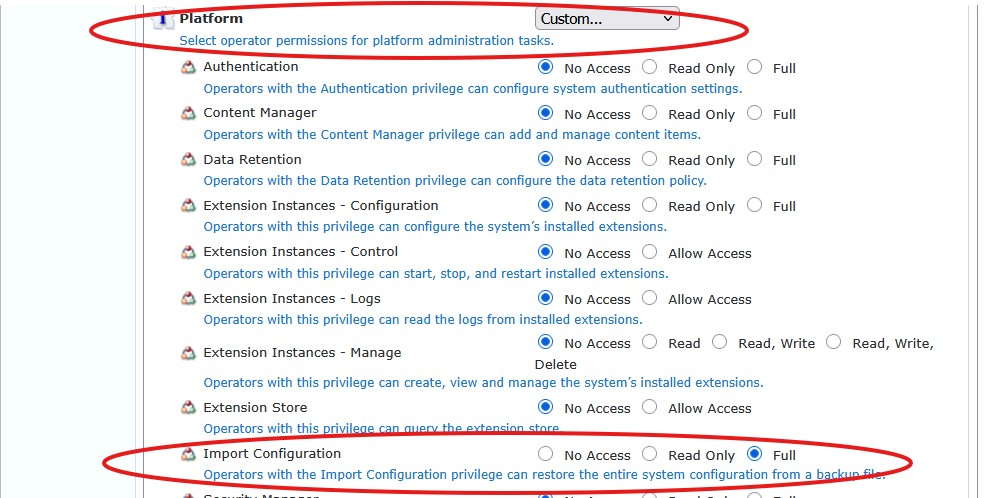
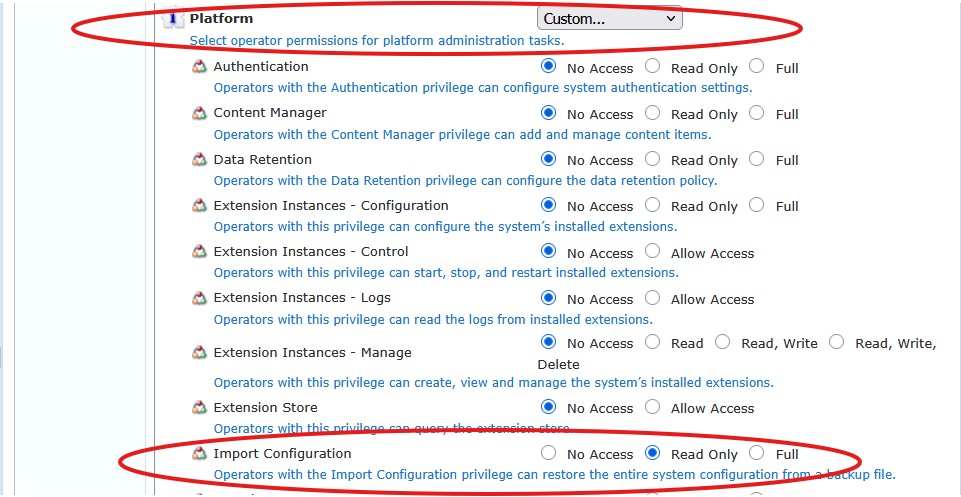
modified:   clearpass/cert_manager/CPPM_CertMgr_Web.py 	modified:   clearpass/cert_manager/README.md 	modified:   clearpass/cert_manager/screenshots/permissions-platform.jpg

diff --git a/clearpass/cert_manager/CPPM_CertMgr_Web.py b/clearpass/cert_manager/CPPM_CertMgr_Web.py
@@ -16,6 +16,15 @@ warnings.filterwarnings("ignore", category=UnknownTimezoneWarning)
 
 # -------------------- Helpers / constants --------------------
 SERVICE_NAMES = ["RADIUS", "HTTPS(RSA)", "HTTPS(ECC)", "RadSec"]
+REQUIRED_PRIVILEGES = {
+    "#admin_restore",
+    "%cppm_cert_trust_list",
+    "%cppm_certificates",
+    "?api_index",
+    "?cppm_config",
+    "?platform",
+    "apigility",
+}
 
 def canonical_service_name(s: str) -> str:
     if not s: return s
@@ -239,6 +248,12 @@ class ClearPassAPI:
         data = self._get("/api/cert-trust-list")
         return self._extract_list(data)
 
+    def list_privileges(self):
+        data = self._get("/api/oauth/privileges")
+        if isinstance(data, dict) and isinstance(data.get("privileges"), list):
+            return data.get("privileges")
+        return []
+
 # -------------------- Flask app & file hosting --------------------
 app = Flask(__name__)
 app.config["JSONIFY_PRETTYPRINT_REGULAR"] = True
@@ -327,7 +342,7 @@ def index():
  .row{display:flex;gap:12px;flex-wrap:wrap;align-items:center}
  input[type=text],input[type=password]{padding:8px;min-width:240px}
  button{padding:8px 12px;cursor:pointer}
- table{border-collapse:collapse;width:100%;margin-top:12px}
+ table{border-collapse:collapse;width:100%;margin-top:0}
  th,td{border-bottom:1px solid #ddd;padding:6px 8px;text-align:left;user-select:none}
  th{cursor:pointer}
 #modal { display: none; position: fixed; inset: 0; background: rgba(0,0,0,.45);
@@ -336,8 +351,8 @@ def index():
  tr:hover{background:#fafafa}
  .muted{color:#666}
  .topbar{position:sticky;top:0;background:#fff;padding:10px 0;border-bottom:1px solid #eee;z-index:10}
- .th-sort-asc::after{content:" â–²";font-size:12px;color:#666}
- .th-sort-desc::after{content:" â–¼";font-size:12px;color:#666}
+ .th-sort-asc::after{content:" ^";font-size:12px;color:#666}
+ .th-sort-desc::after{content:" v";font-size:12px;color:#666}
  .badge{display:inline-block;padding:2px 6px;border-radius:4px;background:#eef}
  .danger{color:#b42318}
  .dim{color:#777}
@@ -400,8 +415,10 @@ body.modal-open{ overflow:hidden; }
 .res-bad{color:#b42318}
 .badge-min{font:12px/1 ui-sans-serif,system-ui,Arial;padding:2px 6px;border-radius:999px;border:1px solid #ddd;background:#fff;white-space:nowrap}
 .hidden{display:none}
+.details-box{white-space:pre-wrap;background:#fafafa;border:1px solid #eee;padding:10px;border-radius:8px;font:12px/1.4 ui-monospace,Consolas,Menlo,monospace}
 </style>
 </head><body>
+<h2 style="margin:0 0 10px 0;">ClearPass Certificate Manager</h2>
 <div class="topbar">
   <div class="topbar-grid">
     <div class="panel">
@@ -423,7 +440,7 @@ body.modal-open{ overflow:hidden; }
 
     <!-- Replacement section is hidden until connected -->
     <div id="replaceSection" class="panel hidden">
-      <div class="panel-title">Step 2: Upload & Trust</div>
+      <div class="panel-title">Step 2: Upload & Host</div>
       <div class="stack">
         <div class="row">
           <input type="file" id="pfxFile" accept=".pfx,.p12,application/x-pkcs12" disabled>
@@ -431,22 +448,30 @@ body.modal-open{ overflow:hidden; }
           <button id="uploadBtn" class="btn" disabled>Upload & Host</button>
         </div>
         <div class="row">
+          <span id="fileStatus" class="muted"></span>
+        </div>
+      </div>
+    </div>
+
+    <div id="trustSection" class="panel hidden">
+      <div class="panel-title">Step 3: Trust List</div>
+      <div class="stack">
+        <div class="row">
           <button id="importTrustBtn" class="btn" disabled>Import Trust</button>
           <span class="dim">Usage: <code>Others</code></span>
         </div>
         <div class="row">
-          <span id="fileStatus" class="muted"></span>
           <span id="trustStatus" class="muted"></span>
         </div>
       </div>
     </div>
 
     <div id="replaceSection2" class="panel hidden">
-      <div class="panel-title">Step 3: Replace</div>
+      <div class="panel-title">Step 4: Replace</div>
       <div class="stack">
         <div class="row">
           <label><input id="selAll" type="checkbox"> Select visible</label>
-          <button id="replaceBtn" class="btn-danger" disabled>Replace Certificate…</button>
+          <button id="replaceBtn" class="btn-danger" disabled>Replace Certificate...</button>
         </div>
         <div class="row">
           <span class="dim">Select rows to target, then click Replace.</span>
@@ -456,16 +481,19 @@ body.modal-open{ overflow:hidden; }
   </div>
 </div>
 
-<div id="filterRow" class="row hidden" style="margin-top:8px;">
-  <strong>Filter services:</strong>
-  <label><input type="checkbox" class="svc" value="RADIUS" checked> RADIUS</label>
-  <label><input type="checkbox" class="svc" value="HTTPS(RSA)" checked> HTTPS(RSA)</label>
-  <label><input type="checkbox" class="svc" value="HTTPS(ECC)" checked> HTTPS(ECC)</label>
-  <label><input type="checkbox" class="svc" value="RadSec" checked> RadSec</label>
-</div>
-
 <table id="grid" style="display:none">
   <thead>
+    <tr id="filterRow" style="display:none">
+      <td colspan="8">
+        <div class="row" style="margin-top:8px;margin-bottom:0;">
+          <strong>Filter services:</strong>
+          <label><input type="checkbox" class="svc" value="RADIUS" checked> RADIUS</label>
+          <label><input type="checkbox" class="svc" value="HTTPS(RSA)" checked> HTTPS(RSA)</label>
+          <label><input type="checkbox" class="svc" value="HTTPS(ECC)" checked> HTTPS(ECC)</label>
+          <label><input type="checkbox" class="svc" value="RadSec" checked> RadSec</label>
+        </div>
+      </td>
+    </tr>
     <tr>
       <th data-key="__check" style="width:28px;"><input type="checkbox" id="hdrCheck"></th>
       <th data-key="server_label">Server</th>
@@ -481,7 +509,7 @@ body.modal-open{ overflow:hidden; }
 </table>
 
 <h3 id="detailHeader" class="hidden">Details</h3>
-<div id="details" class="hidden"></div>
+<div id="details" class="details-box hidden"></div>
 <div class="row hidden" id="detailBtns" style="margin-top:8px;">
   <button id="copyPemBtn" class="btn">Copy PEM</button>
 </div>
@@ -554,6 +582,48 @@ function svcFilter(){return new Set(Array.from(document.querySelectorAll(".svc:c
 function showModal(){ $('modal').classList.add('show'); }
 function hideModal(){ $('modal').classList.remove('show'); }
 
+// Ensure a single source of truth for the .svc filter controls: relocate any
+// stray controls into the table's filterRow (or create the row if missing).
+document.addEventListener('DOMContentLoaded', ()=>{
+  const grid = document.getElementById('grid');
+  const tableFilter = document.getElementById('filterRow');
+  // Gather .svc controls that are NOT inside the table (stray duplicates)
+  const stray = Array.from(document.querySelectorAll('.svc')).filter(cb => !cb.closest('#grid'));
+
+  if (tableFilter) {
+    // Move stray controls into the table's filter row container
+    const container = tableFilter.querySelector('div.row') || tableFilter;
+    stray.forEach(cb=>{
+      const label = cb.closest('label') || cb.parentElement;
+      if (label) container.appendChild(label);
+    });
+  } else if (grid && stray.length) {
+    // If table has no filterRow yet, create it and move the stray controls in
+    const thead = grid.querySelector('thead') || grid;
+    const tr = document.createElement('tr'); tr.id = 'filterRow'; tr.style.display = 'none';
+    const td = document.createElement('td'); td.colSpan = 8;
+    const div = document.createElement('div'); div.className = 'row'; div.style.marginTop = '8px'; div.style.marginBottom = '0';
+    const strong = document.createElement('strong'); strong.textContent = 'Filter services:';
+    div.appendChild(strong);
+    stray.forEach(cb=>{
+      const label = cb.closest('label') || cb.parentElement;
+      if (label) div.appendChild(label);
+    });
+    td.appendChild(div); tr.appendChild(td); thead.appendChild(tr);
+  }
+
+  // Attach idempotent handlers to .svc inputs that are now inside the table
+  const fr = document.getElementById('filterRow');
+  if (fr) {
+    fr.querySelectorAll('.svc').forEach(cb=>{
+      if (!cb._hasFilterHandler){
+        cb.addEventListener('change', ()=>{ applyFiltersAndSort(); $('selAll').checked=false; });
+        cb._hasFilterHandler = true;
+      }
+    });
+  }
+});
+
 function asJSON(obj, indent=2){
   try{ return JSON.stringify(obj, null, indent); }catch(_){ return String(obj); }
 }
@@ -576,9 +646,9 @@ function showResultsModal(payload){
     const div = document.createElement('div');
     div.className = 'res-row';
     div.innerHTML = `
-      <div class="${ok?'res-ok':'res-bad'}">${ok?'âœ…':'âŒ'}</div>
+      <div class="${ok?'res-ok':'res-bad'}">${ok?'OK':'X'}</div>
       <div>
-        <div><strong>${esc(r.server_label||'')}</strong> â€” ${esc(r.service||'')}</div>
+        <div><strong>${esc(r.server_label||'')}</strong>  -  ${esc(r.service||'')}</div>
         <pre style="margin:6px 0 0;white-space:pre-wrap">${esc(prettyMsg)}</pre>
       </div>
       <div><span class="badge-min">${r.status ?? ''}</span></div>
@@ -680,8 +750,20 @@ function renderTable(){
   grid.style.display = viewRows.length ? '' : 'none';
   const filterRow = document.getElementById('filterRow');
   if (filterRow) {
-    filterRow.style.display = viewRows.length ? '' : 'none';
-    filterRow.classList.toggle('hidden', viewRows.length === 0);
+    const show = viewRows.length > 0;
+    // For a table-row we toggle its display to '' (default) or 'none'.
+    if (show) {
+      filterRow.style.display = '';
+      // Attach handlers to the checkboxes inside the filter row (idempotent)
+      filterRow.querySelectorAll('.svc').forEach(cb=>{
+        if (!cb._hasFilterHandler){
+          cb.addEventListener('change', ()=>{ applyFiltersAndSort(); $('selAll').checked=false; });
+          cb._hasFilterHandler = true;
+        }
+      });
+    } else {
+      filterRow.style.display = 'none';
+    }
   }
   $('detailHeader').classList.add('hidden'); $('details').classList.add('hidden'); $('detailBtns').classList.add('hidden');
   selectedIndex=-1;
@@ -696,14 +778,21 @@ function selectRow(i){
   selectedIndex=i; const r=viewRows[i];
   $('detailHeader').classList.remove('hidden'); $('details').classList.remove('hidden'); $('detailBtns').classList.remove('hidden');
   const parts=[];
-  parts.push('Server: ' + (r.server_label||'')); parts.push('Service: ' + (r.service||'')); parts.push('Server UUID: ' + (r.server_uuid||''));
-  parts.push('Enabled: ' + (r.enabled_str||'')); parts.push('Subject: ' + (r.subject||'')); parts.push('Issuer: ' + (r.issuer||''));
-  parts.push('Issued Date: ' + (r.issued_date||'')); parts.push('Expiry Date: ' + (r.expiry_date||''));
-  parts.push(''); parts.push('PEM:\
-' + (r.pem||'')); parts.push(''); parts.push('Raw JSON:\
-' + JSON.stringify(r.raw||{}, null, 2));
-  $('details').textContent=parts.join('\
-');
+  parts.push('Server: ' + (r.server_label||''));
+  parts.push('Service: ' + (r.service||''));
+  parts.push('Server UUID: ' + (r.server_uuid||''));
+  parts.push('Enabled: ' + (r.enabled_str||''));
+  parts.push('Subject: ' + (r.subject||''));
+  parts.push('Issuer: ' + (r.issuer||''));
+  parts.push('Issued Date: ' + (r.issued_date||''));
+  parts.push('Expiry Date: ' + (r.expiry_date||''));
+  parts.push('');
+  parts.push('PEM:');
+  parts.push(r.pem || '');
+  parts.push('');
+  parts.push('Raw JSON:');
+  parts.push(JSON.stringify(r.raw||{}, null, 2));
+  $('details').textContent = parts.join('\n');
 }
 
 $('copyPemBtn').addEventListener('click', async ()=>{
@@ -711,9 +800,8 @@ $('copyPemBtn').addEventListener('click', async ()=>{
   await navigator.clipboard.writeText(pem); setStatus('PEM copied to clipboard');
 });
 
-document.querySelectorAll('.svc').forEach(cb=>{
-  cb.addEventListener('change', ()=>{ applyFiltersAndSort(); $('selAll').checked=false; });
-});
+// Filter checkbox handlers are attached idempotently when the filterRow is shown
+// (keeps bindings local to the single filter row inside the table)
 
 $('hdrCheck').addEventListener('change', (e)=>{
   const v = e.target.checked;
@@ -772,7 +860,7 @@ $('connectBtn').addEventListener('click', async ()=>{
     try {
       const j = JSON.parse(msg);
       const parts = [j.error || 'Failed'];
-      if (j.hint) parts.push('â€” ' + j.hint);
+      if (j.hint) parts.push(' -  ' + j.hint);
       setStatus(parts.join(' '));
     } catch(_) {
       setStatus('Failed: ' + msg);
@@ -794,7 +882,8 @@ $('uploadBtn').addEventListener('click', async ()=>{
     hostedTokenForTrust = j.token;
     uploadedPass = $('pfxPass').value || '';
     $('fileStatus').textContent = 'Hosted: ' + hostedUrl;
-    updateReplaceEnabled();  // <â€” enable Replace if rows are already selected
+    updateReplaceEnabled();  // < -  enable Replace if rows are already selected
+    const trustSection = document.getElementById('trustSection'); if (trustSection) trustSection.classList.remove('hidden');
     const rs2 = document.getElementById('replaceSection2'); if (rs2) rs2.classList.remove('hidden');
     $('importTrustBtn').disabled = false;
     // Check if CA/intermediates already exist in the trust list
@@ -830,7 +919,7 @@ $('importTrustBtn').addEventListener('click', async ()=>{
   try{
     if(!hostedTokenForTrust){ $('trustStatus').textContent='Upload a PFX first'; return; }
     $('importTrustBtn').disabled = true;
-    $('trustStatus').textContent = 'Importing chain into trust listâ€¦';
+    $('trustStatus').textContent = 'Importing chain into trust list...';
     const j = await postJSON('/api/import-trust-from-pfx', {
     pfx_token: hostedTokenForTrust,
     passphrase: $('pfxPass').value || '',
@@ -853,12 +942,11 @@ $('replaceBtn').addEventListener('click', ()=>{
   const body = [
     'You are about to replace certificates for the following targets:',
     '',
-    ...t.map(x => `â€¢ ${x.server_label} â€” ${x.service}`),
+    ...t.map(x => `    * ${x.server_label}  -  ${x.service}`),
     '',
     'This will call PUT /api/server-cert/name/{server_uuid}/{service_name} on the Publisher.',
     'Ensure ClearPass can reach the PKCS#12 URL over HTTP.'
-  ].join('\
-');
+  ].join('\n');
   $('modalBody').textContent = body;
   $('modalUrl').value = hostedUrl || '';
   $('modalPass').value = $('pfxPass').value || uploadedPass || '';
@@ -950,10 +1038,28 @@ def api_connect_and_scan():
         if "OAuth failed 401" in em or "OAuth failed 403" in em or "No token" in em or "token" in em.lower():
             return jsonify(
                 error="Authentication failed",
-                hint="Token is invalid or lacks permissions. Check Administration â†’ API Services â†’ API Clients.",
+                hint="Token is invalid or lacks permissions. Check Administration -> API Services -> API Clients.",
                 details=em
             ), 401
         return jsonify(error="Connect failed, Check credentials", details=em), 500
+    # Check API token privileges
+    try:
+        privs = set(api.list_privileges() or [])
+        missing = sorted([p for p in REQUIRED_PRIVILEGES if p not in privs])
+        if missing:
+            return jsonify(
+                error="API token missing required privileges",
+                hint="Token must include the required ClearPass API privileges.",
+                required=sorted(REQUIRED_PRIVILEGES),
+                missing=missing
+            ), 403
+    except Exception as e:
+        return jsonify(
+            error="Unable to verify token privileges",
+            hint="Check that the Publisher is reachable and the token is valid.",
+            details=str(e)
+        ), 502
+
     sid = session.get("sid") or secrets.token_hex(8)
     session["sid"] = sid; _APIS[sid] = api
 
@@ -1250,7 +1356,7 @@ def shutdown():
     if func is None:
         os._exit(0)
     threading.Timer(0.05, func).start()
-    return jsonify(message="Server shutting downâ€¦ uploads cleaned.")
+    return jsonify(message="Server shutting down... uploads cleaned.")
 
 # -------------------- Run --------------------
 if __name__ == "__main__":

diff --git a/clearpass/cert_manager/README.md b/clearpass/cert_manager/README.md
@@ -64,7 +64,7 @@ Some users already have an API client; others need to create both the Operator P
 
 ### If you need to create the Operator Profile and API client
 
-If you're unsure about creating API clients, follow your organization’s security guidelines.
+If you're unsure about creating API clients, follow your organization's security guidelines.
 
 1. Create an Operator Profile for **Platform Certificate Manager**.
   ![Operator Profile - Platform Certificate Manager](screenshots/operator-profile-platform-certificate-manager.jpg)
@@ -80,8 +80,33 @@ If you're unsure about creating API clients, follow your organization’s securi
   ![Get API Token](screenshots/generate-token.jpg)
 5. Paste the token into the UI's **Token** field.
 
+## Token Privileges Check
+
+On connect, the UI verifies the token has the required privileges by calling:
+
+```
+GET /api/oauth/privileges
+```
+
+The token must include these privileges:
+
+```
+#admin_restore
+%cppm_cert_trust_list
+%cppm_certificates
+?api_index
+?cppm_config
+?platform
+apigility
+```
+
+If any are missing, the connection will fail and the UI will list the missing items.
+
 ## Operational Notes
 
+- Step 2 in the UI is **Upload & Host**.
+- Step 3 is **Trust List** (import CA/intermediates).
+- Step 4 is **Replace** (apply the hosted PKCS#12 to selected services).
 - ClearPass must be able to reach the PKCS#12 file URL hosted by this tool.
 - If ClearPass cannot reach your machine, place the PKCS#12 file on a reachable HTTP server and paste that URL into the UI.
 - This is intended for development/ops use; run behind a proper WSGI server for production usage.
